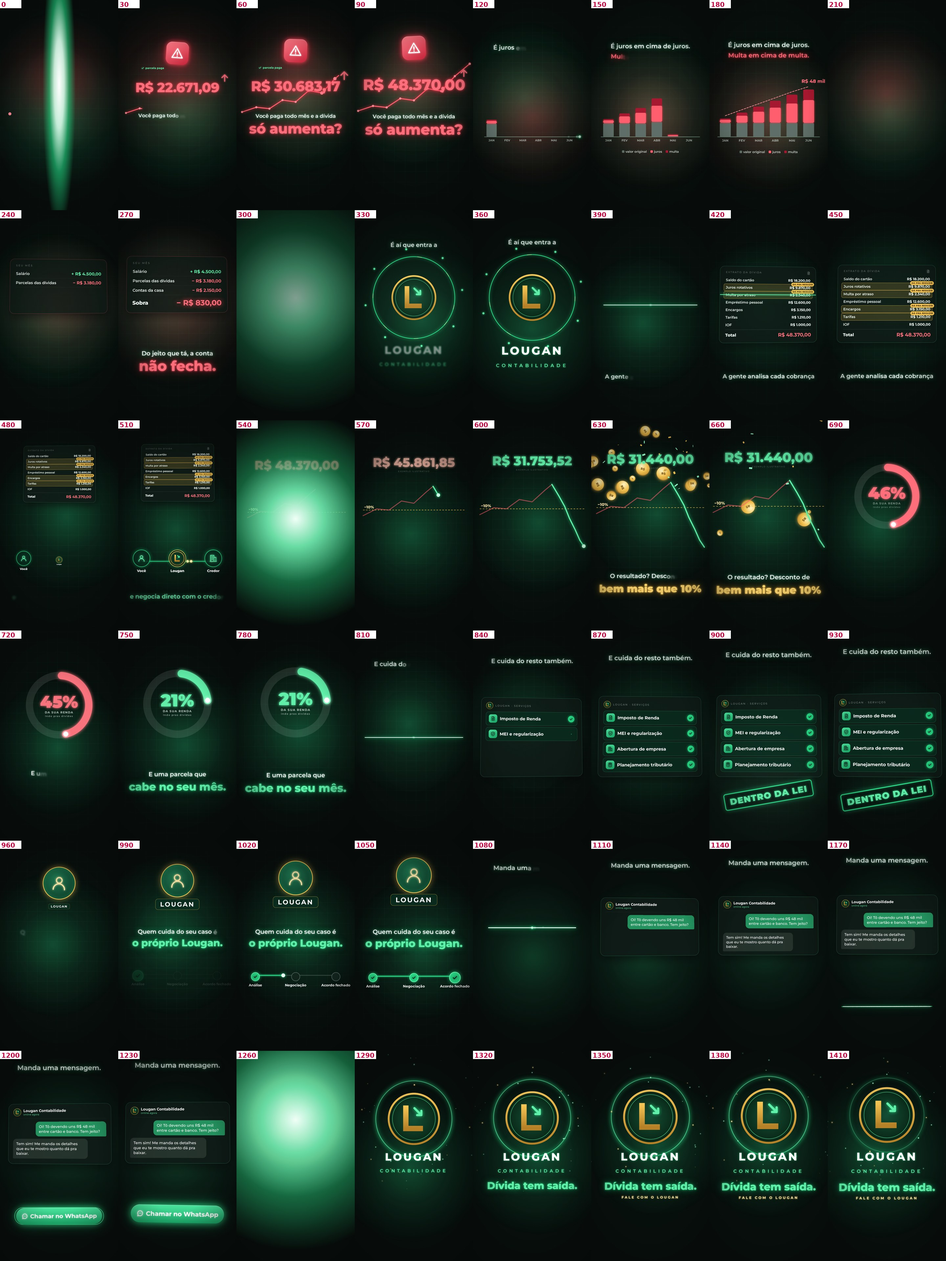
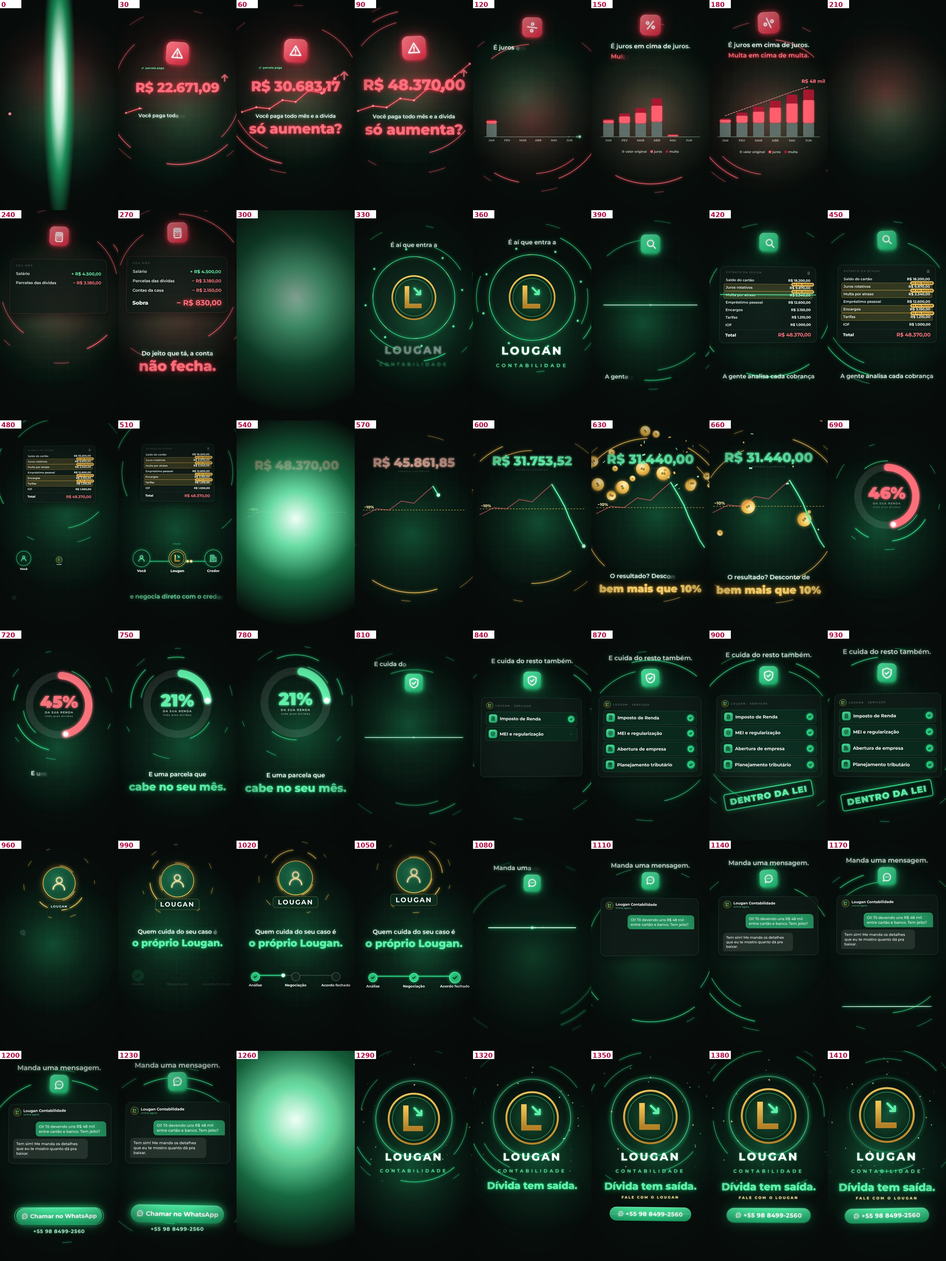
Lougan: arcos neon, ícones em tile e troca de tela da referência
Cada cena ganha arcos neon girando em volta do elemento principal
(mkArcs/arcsAt) e um ícone em tile brilhante com micro-animação
(mkTile/tileAt). Em 105, 675 e 945 as duas cenas viram cartões
arredondados com borda neon e deslizam juntas (SWIPE). O painel de
serviços ganhou um brilho atravessando pra não ficar parado.

Claude-Session: https://claude.ai/code/session_0146drBJ6xrHRsRtkNqfVv93

diff --git a/motion-studio/projects/lougan-contabil/motion.html b/motion-studio/projects/lougan-contabil/motion.html
@@ -106,7 +106,7 @@ function L(el, { y = CY, x = 0, s = 1, o = 1, b = 0 } = {}) {
 // câmera contínua (regra 1) + saídas: zoom com blur a partir de um ponto
 function cam(el, lf, d, { s0 = 1, s1 = 1.08, r = 0, ox = CX, oy = CY, exit = null } = {}) {
   let s = lerp(s0, s1, prog(lf, 0, d, E.lin)), b = 0, o = 1;
-  if (exit) {
+  if (exit && !NOEXIT) {
     const k = prog(lf, d - exit.len, d, E.inC);
     s *= 1 + (exit.zoom ?? .7) * k; b = (exit.blur ?? 22) * k; o = 1 - (exit.fade ?? 0) * k;
   }
@@ -185,6 +185,7 @@ const IC2 = {
   check: '<svg viewBox="0 0 24 24"><path d="M5 12.5l4.5 4.5L19 7.5"/></svg>',
   x: '<svg viewBox="0 0 24 24"><path d="M6 6l12 12M18 6L6 18"/></svg>',
   bolt: '<svg viewBox="0 0 24 24"><path d="M13 2.5L5 13.5h6l-1 8 8-11h-6z"/></svg>',
+  search: '<svg viewBox="0 0 24 24"><circle cx="10.5" cy="10.5" r="6.5"/><path d="M15.5 15.5L21 21"/></svg>',
 };
 const popS = (lf, t0) => spring(lf, t0, { k: 200, c: 15 });
 // ponto que viaja de um lado pro outro (com rastro) e abre a tela: ponto → linha → tela
@@ -222,6 +223,32 @@ const shakeAt = (lf, hits, amp = 14) => { let x = 0, y = 0; hits.forEach((t, i) 
 const redGlow = c => add(c, 'el', '', 'width:1500px;height:1500px;border-radius:50%;background:radial-gradient(circle,rgba(255,50,70,.30),rgba(255,50,70,.08) 35%,rgba(255,50,70,0) 62%)');
 const coinsEl = (c, n, size = 70) => [...Array(n).keys()].map(i => add(c, 'el coin', 'R$', `width:${size}px;height:${size}px;font-size:${size * .32}px`));
 
+// ---------- elementos da referência: arcos neon girando em volta da cena + ícone em tile com brilho ----------
+const beatOf = lf => Math.exp(-(((lf % 15) + 15) % 15) / 4);   // 120 BPM: um tempo a cada 15 frames
+function mkArcs(c, R = 620, col = '#22D37F') {
+  const segs = [[R, 7, `${R * .9} ${R * .55} ${R * .35} ${R * 4.5}`], [R - 85, 5, `${R * .55} ${R * 2.2}`], [R + 75, 3, `${R * .22} ${R * .7} ${R * .12} ${R * 1.4}`]];
+  const S = 2 * R + 300;
+  const el = add(c, 'el svgfull', `<svg width="${S}" height="${S}" viewBox="${-S / 2} ${-S / 2} ${S} ${S}" style="display:block">${segs.map(([r, w, da]) => `<circle r="${r}" fill="none" stroke="${col}" stroke-width="${w}" stroke-dasharray="${da}" stroke-linecap="round" style="filter:drop-shadow(0 0 12px ${col})"/>`).join('')}</svg>`, `width:${S}px;height:${S}px`);
+  return { el, cs: [...el.querySelectorAll('circle')] };
+}
+function arcsAt(A, lf, { x = CX, y = CY, s = 1, t0 = 0, spd = 1.6, o = 1 } = {}) {
+  const k = prog(lf, t0, t0 + 16, E.out5);
+  P(A.el, { x, y, s: lerp(1.35, 1, k) * s * (1 + .015 * beatOf(lf)), o: k * o, b: (1 - k) * 12 });
+  A.cs.forEach((cc, i) => cc.setAttribute('transform', `rotate(${(i % 2 ? -1 : 1) * (lf - t0) * spd * (1 + i * .4) + i * 75 + lerp(-110, 0, k)})`));
+}
+const mkTile = (c, svg, red = false, sz = V(180, 150)) => add(c, `el tile${red ? ' redtile' : ''}`, svg, `width:${sz}px;height:${sz}px`);
+function tileAt(t, lf, t0, d, { x = CX, y = CY, out = null, anim = 'beat' } = {}) {
+  const ok = prog(lf, t0, t0 + 14, E.out5);
+  let s = popS(lf, t0) * (1 + .06 * prog(lf, t0 + 8, d)) * (1 + .05 * beatOf(lf)), yy = y - prog(lf, t0, d) * 16, b = 0;
+  if (out !== null) { const q = prog(lf, out, out + 8, E.inC); s *= 1 - q; yy -= q * 120; b = q * 10; }
+  P(t, { x, y: yy, s, o: lf < t0 ? 0 : 1, b, r: lerp(-30, 0, ok) + Math.sin(lf * .9) * 2.5 * prog(lf, t0 + 8, t0 + 20) });
+  const g = t.querySelector('svg');
+  g.style.transform = anim === 'spin' ? `rotate(${(lf - t0) * 4}deg)` : anim === 'bob' ? `translateY(${Math.sin(lf / 4) * 8}%)` : anim === 'scan' ? `translate(${Math.sin(lf / 6) * 12}%,${Math.cos(lf / 8) * 9}%)` : `scale(${1 + .12 * beatOf(lf)})`;
+}
+// transição "troca de tela" da referência: as duas cenas viram cartões arredondados com borda neon e deslizam juntas
+const SWIPE = [105, 675, 945], SWN = 9;
+let NOEXIT = false;
+
 // ---------- peças de gráfico (a linguagem do gráfico de abertura vale pro vídeo todo) ----------
 const counter = (el, v, col) => { el.textContent = brl(Math.round(v * 100) / 100); if (col) el.style.color = col; };
 const mix = (a, b, k) => `rgb(${a.map((x, i) => Math.round(lerp(x, b[i], k))).join(',')})`;
@@ -230,17 +257,19 @@ const RED = [255, 107, 120], GRN = [93, 240, 168];
 // 1 · gancho: "Você paga todo mês e a dívida só aumenta?" (0–105)
 scene(0, 105, '', c => {
   darkBg(c); const rg = redGlow(c);
+  const A = mkArcs(c, 640, '#FF5A6A');
   const chart = add(c, 'el', `<svg width="900" height="420" viewBox="0 0 900 420" style="overflow:visible"><polyline class="ln" points="0,400 120,360 230,372 340,300 450,315 560,220 670,240 780,120 900,20" fill="none" stroke="#FF5A6A" stroke-width="8" stroke-linejoin="round" stroke-linecap="round" pathLength="1" stroke-dasharray="1" style="filter:drop-shadow(0 0 12px #FF3045)"/>${[0, 1, 2, 3, 4, 5, 6, 7, 8].map(i => `<circle class="pd" cx="${[0, 120, 230, 340, 450, 560, 670, 780, 900][i]}" cy="${[400, 360, 372, 300, 315, 220, 240, 120, 20][i]}" r="9" fill="#FF8A95"/>`).join('')}</svg>`, 'width:900px;height:420px');
   const tile = add(c, 'el tile redtile', IC2.alert, `width:${V(200, 170)}px;height:${V(200, 170)}px`);
   const num = add(c, 'el red', 'R$ 21.900,00', `font-weight:800;font-size:${V(118, 100)}px;white-space:nowrap;letter-spacing:-.01em`);
   const arrow = add(c, 'el', icon('<svg viewBox="0 0 24 24"><path d="M12 20V4M5 11l7-7 7 7"/></svg>', 90, '#FF6B78', 2.6));
   const paid = add(c, 'el', `${icon(IC2.check, 30, '#5DF0A8', 3)}<span>parcela paga</span>`, 'display:flex;align-items:center;gap:10px;font-weight:700;font-size:26px;color:#5DF0A8;white-space:nowrap');
-  return { rg, chart, ln: chart.querySelector('.ln'), pds: [...chart.querySelectorAll('.pd')], tile, num, arrow, paid, l1: typer(add(c, 'ctr ws', 'Você paga todo mês e a dívida'), 26), l2: add(c, 'ctr pb red', 'só aumenta?') };
+  return { A, rg, chart, ln: chart.querySelector('.ln'), pds: [...chart.querySelectorAll('.pd')], tile, num, arrow, paid, l1: typer(add(c, 'ctr ws', 'Você paga todo mês e a dívida'), 26), l2: add(c, 'ctr pb red', 'só aumenta?') };
 }, (x, lf, d) => {
   const c = x.ctx;
   cam(x.cam, lf, d, { s1: 1.1, oy: CY - 80, exit: { len: 8, zoom: .9, blur: 26, fade: .6 } });
   const [sx, sy] = shakeAt(lf, [62, 84], 10); x.cam.style.transform += ` translate(${sx}px,${sy}px)`;
   P(c.rg, { y: CY - 200, s: 1 + .15 * Math.sin(lf / 4) });
+  arcsAt(c.A, lf, { y: CY - 110 - lf * .5, t0: 4, spd: 1.8 });
   const dk = prog(lf, 4, 84, E.inOutC);
   c.ln.style.strokeDashoffset = 1 - dk;
   c.pds.forEach((p, i) => { const on = dk >= i / 8 - .001; p.style.opacity = on ? 1 : 0; p.setAttribute('r', on ? 9 + 5 * Math.exp(-Math.max(0, lf - (4 + i / 8 * 80)) / 4) : 0); });
@@ -260,15 +289,17 @@ scene(0, 105, '', c => {
 const MONTHS = ['JAN', 'FEV', 'MAR', 'ABR', 'MAI', 'JUN'];
 scene(105, 105, '', c => {
   darkBg(c); const rg = redGlow(c);
+  const A = mkArcs(c, 660, '#FF5A6A'), T = mkTile(c, IC2.pct, true, V(170, 140));
   const bars = MONTHS.map((m, i) => `<g class="bar"><rect class="s0" x="${40 + i * 140}" width="92" rx="10" fill="#5B6B64"/><rect class="s1" x="${40 + i * 140}" width="92" rx="10" fill="#FF5A6A" style="filter:drop-shadow(0 0 8px #FF3045)"/><rect class="s2" x="${40 + i * 140}" width="92" rx="10" fill="#A3122A"/><text x="${86 + i * 140}" y="600" text-anchor="middle" fill="rgba(242,255,248,.6)" font-family="Montserrat" font-weight="700" font-size="26">${m}</text></g>`).join('');
   const chart = add(c, 'el', `<svg width="900" height="620" viewBox="0 0 900 620" style="overflow:visible"><line class="base" x1="20" y1="560" x2="880" y2="560" stroke="rgba(200,255,226,.55)" stroke-width="4" pathLength="1" stroke-dasharray="1"/>${bars}<polyline class="tr" fill="none" stroke="#FF8A95" stroke-width="5" stroke-dasharray="14 10" stroke-linecap="round"/><text class="tot" x="826" y="0" text-anchor="middle" fill="#FF6B78" font-family="Montserrat" font-weight="800" font-size="40">R$ 48 mil</text></svg>`, 'width:900px;height:620px');
   const leg = add(c, 'el', [['#5B6B64', 'valor original'], ['#FF5A6A', 'juros'], ['#A3122A', 'multa']].map(([col, t]) => `<span style="display:inline-flex;align-items:center;gap:10px;margin:0 16px"><i style="width:22px;height:22px;border-radius:6px;background:${col}"></i>${t}</span>`).join(''), 'font-weight:600;font-size:28px;color:rgba(242,255,248,.8);white-space:nowrap');
   const D = mkDot(c);
-  return { D, base: chart.querySelector('.base'), rg, chart, bars: [...chart.querySelectorAll('.bar')], tr: chart.querySelector('.tr'), tot: chart.querySelector('.tot'), leg, l1: typer(add(c, 'ctr ws', 'É juros em cima de juros.', 'font-size:54px'), 26), l2: typer(add(c, 'ctr ws red', 'Multa em cima de multa.', 'font-size:54px'), 26) };
+  return { A, T, D, base: chart.querySelector('.base'), rg, chart, bars: [...chart.querySelectorAll('.bar')], tr: chart.querySelector('.tr'), tot: chart.querySelector('.tot'), leg, l1: typer(add(c, 'ctr ws', 'É juros em cima de juros.', 'font-size:54px'), 26), l2: typer(add(c, 'ctr ws red', 'Multa em cima de multa.', 'font-size:54px'), 26) };
 }, (x, lf, d) => {
   const c = x.ctx;
   cam(x.cam, lf, d, { s1: 1.08, exit: { len: 8, zoom: .5, blur: 18 } });
   P(c.rg, { y: CY + 100, s: 1 + .1 * Math.sin(lf / 5) });
+  arcsAt(c.A, lf, { y: CY + 40 - lf * .3, t0: 4 }); tileAt(c.T, lf, 2, d, { y: CY - V(700, 520), anim: 'spin' });
   P(c.chart, { y: CY + 40 - lf * .3, s: 1 + .04 * prog(lf, 0, d) });
   const by = CY + 40 - lf * .3 + 250;
   dotTravel(c.D, lf, 0, 12, { x: -40, y: by }, { x: CX + 430, y: by });
@@ -294,17 +325,19 @@ scene(105, 105, '', c => {
 const LEDGER = [['Salário', 4500, GRN], ['Parcelas das dívidas', -3180, RED], ['Contas da casa', -2150, RED]];
 scene(210, 90, '', c => {
   darkBg(c); const rg = redGlow(c);
+  const A = mkArcs(c, 600, '#FF5A6A'), T = mkTile(c, IC2.calc, true, V(160, 130));
   const card = add(c, 'el', `<div class="mono" style="font-size:22px;letter-spacing:.3em;color:rgba(242,255,248,.5);margin-bottom:18px">SEU MÊS</div>
     ${LEDGER.map(([t, v, col]) => `<div class="lr" style="display:flex;justify-content:space-between;align-items:center;padding:16px 0;border-bottom:1px solid rgba(242,255,248,.1)"><span style="font-weight:600;font-size:34px;color:#F2FFF8">${t}</span><b style="font-size:38px;color:rgb(${col.join(',')})">${v > 0 ? '+ ' : '− '}${brl(Math.abs(v))}</b></div>`).join('')}
     <div class="lr" style="display:flex;justify-content:space-between;align-items:center;padding-top:26px"><span style="font-weight:800;font-size:44px;color:#F2FFF8">Sobra</span><b class="sob" style="font-size:64px;color:#FF6B78">R$ 0,00</b></div>`,
     'width:860px;padding:44px 50px;border-radius:40px;background:rgba(8,20,15,.82);border:2px solid rgba(255,107,120,.35);box-shadow:0 30px 80px rgba(0,0,0,.6)');
   const D = mkDot(c);
-  return { D, rg, card, rows: [...card.querySelectorAll('.lr')], sob: card.querySelector('.sob'), l1: typer(add(c, 'ctr ws', 'Do jeito que tá, a conta', 'font-size:52px'), 26), l2: add(c, 'ctr pb red', 'não fecha.') };
+  return { A, T, D, rg, card, rows: [...card.querySelectorAll('.lr')], sob: card.querySelector('.sob'), l1: typer(add(c, 'ctr ws', 'Do jeito que tá, a conta', 'font-size:52px'), 26), l2: add(c, 'ctr pb red', 'não fecha.') };
 }, (x, lf, d) => {
   const c = x.ctx;
   cam(x.cam, lf, d, { s1: 1.08, exit: { len: 8, zoom: 1.2, blur: 22, fade: .6 } });
   const [sx, sy] = shakeAt(lf, [54], 12); x.cam.style.transform += ` translate(${sx}px,${sy}px)`;
   P(c.rg, { y: CY - 100, s: (1 + .1 * Math.sin(lf / 5)) * (lf > 54 ? 1.2 : 1) });
+  arcsAt(c.A, lf, { y: CY - V(250, 190) - lf * .3, t0: 8, spd: -1.7 }); tileAt(c.T, lf, 4, d, { y: CY - V(690, 500) - lf * .3, anim: 'bob' });
   const cy3 = CY - V(250, 190) - lf * .3;
   dotTravel(c.D, lf, 0, 10, { x: 1120, y: cy3 + 260 }, { x: CX, y: cy3 }, 120);
   P(c.card, { y: cy3, s: 1 + .03 * prog(lf, 10, d), t3: `perspective(1600px) rotateX(3deg) rotateY(${Math.sin(lf / 25) * 3}deg)` });
@@ -320,15 +353,17 @@ scene(210, 90, '', c => {
 // 4 · "É aí que entra a Lougan Contabilidade." (300–375)
 scene(300, 75, '', c => {
   darkBg(c, false);
+  const A = mkArcs(c, 560, '#22D37F');
   const ring = add(c, 'el', `<svg width="1000" height="1000" viewBox="-500 -500 1000 1000" style="overflow:visible"><circle r="${V(360, 300)}" fill="none" stroke="#22D37F" stroke-width="6" style="filter:drop-shadow(0 0 14px #22D37F)"/><circle r="${V(360, 300)}" fill="none" stroke="#FFE9A8" stroke-width="3" stroke-dasharray="40 260" opacity=".8"/>${[...Array(8).keys()].map(i => { const a = i / 8 * Math.PI * 2; return `<circle cx="${Math.cos(a) * V(430, 360)}" cy="${Math.sin(a) * V(430, 360)}" r="9" fill="#5DF0A8" style="filter:drop-shadow(0 0 8px #22D37F)"/>`; }).join('')}</svg>`, 'width:1000px;height:1000px');
   const logo = add(c, 'el', BADGE(V(400, 340)), 'filter:drop-shadow(0 0 40px rgba(34,211,127,.6))');
   const wm = add(c, 'ctr', '<span style="font-weight:800;letter-spacing:.14em">LOUGAN</span><br><span style="font-weight:600;font-size:.42em;letter-spacing:.5em;color:#5DF0A8">CONTABILIDADE</span>', `font-size:${V(96, 80)}px;color:#fff;line-height:1.1;text-shadow:0 0 18px rgba(34,211,127,.6)`);
   const D = mkDot(c);
-  return { D, ring, logo, wm, l: typer(add(c, 'ctr ws', 'É aí que entra a', 'font-size:52px'), 22) };
+  return { A, D, ring, logo, wm, l: typer(add(c, 'ctr ws', 'É aí que entra a', 'font-size:52px'), 22) };
 }, (x, lf, d) => {
   cam(x.cam, lf, d, { s1: 1.07, oy: CY - 120, exit: { len: 8, zoom: .5, blur: 16 } });
   L(x.ctx.l.el, { y: CY - V(620, 480) - lf * .3 }); type(x.ctx.l, lf, 2);
   dotTravel(x.ctx.D, lf, 0, 14, { x: -40, y: CY + 200 }, { x: CX, y: CY - 160 }, 160);
+  arcsAt(x.ctx.A, lf, { y: CY - 160, t0: 14, spd: -1.4 });
   const lk = spring(lf, 14, { k: 120, c: 12 });
   P(x.ctx.ring, { y: CY - 160, s: lerp(1.3, 1, prog(lf, 14, 30, E.out5)) * (1 + .04 * prog(lf, 14, d)), r: lf * 1.2, o: prog(lf, 14, 18) });
   P(x.ctx.logo, { y: CY - 160, s: lerp(.5, 1, lk) * (1 + .05 * prog(lf, 14, d)), o: lf < 14 ? 0 : 1, b: (1 - prog(lf, 14, 24, E.out5)) * 16, r: lerp(-20, 0, prog(lf, 14, 32, E.out5)) });
@@ -339,6 +374,7 @@ scene(300, 75, '', c => {
 const EXTRATO = [['Saldo do cartão', 18200, 0], ['Juros rotativos', 9870, 1], ['Multa por atraso', 2340, 1], ['Empréstimo pessoal', 12600, 0], ['Encargos', 3150, 1], ['Tarifas', 1210, 1], ['IOF', 1000, 0]];
 scene(375, 165, '', c => {
   darkBg(c);
+  const A = mkArcs(c, 640, '#22D37F'), T = mkTile(c, IC2.search, false, V(160, 130));
   const doc = add(c, 'el', `<div class="mono" style="display:flex;justify-content:space-between;font-size:22px;letter-spacing:.24em;color:rgba(242,255,248,.5);margin-bottom:14px"><span>EXTRATO DA DÍVIDA</span><span>${icon(IC2.doc, 30, 'rgba(242,255,248,.5)', 1.8)}</span></div>
     ${EXTRATO.map(([t, v, f]) => `<div class="er" data-f="${f}" style="position:relative;display:flex;justify-content:space-between;align-items:center;padding:14px 18px;margin:0 -18px;border-radius:14px"><span style="font-weight:600;font-size:31px;color:#F2FFF8">${t}</span><b style="font-size:31px;color:#F2FFF8">${brl(v)}</b><i class="tg" style="position:absolute;right:-16px;top:-14px;font-style:normal;font-weight:800;font-size:18px;letter-spacing:.08em;padding:6px 12px;border-radius:999px;background:#F2C14E;color:#3A2604;opacity:0">DÁ PRA REDUZIR</i></div>`).join('')}
     <div style="display:flex;justify-content:space-between;align-items:center;padding-top:18px;margin-top:8px;border-top:2px solid rgba(242,255,248,.15)"><span style="font-weight:800;font-size:36px;color:#F2FFF8">Total</span><b style="font-size:44px;color:#FF6B78">R$ 48.370,00</b></div>
@@ -349,7 +385,7 @@ scene(375, 165, '', c => {
     <div class="deal" style="position:absolute;left:450px;top:-100px;transform:translate(-50%,-50%);padding:14px 30px;border-radius:999px;background:#22D37F;color:#03281A;font-weight:800;font-size:32px;white-space:nowrap;box-shadow:0 0 40px rgba(34,211,127,.8)">✓ ACORDO</div>`,
     'width:900px;height:260px');
   const D = mkDot(c);
-  return { D, doc, rows: [...doc.querySelectorAll('.er')], scan: doc.querySelector('.scan'), net, nl: net.querySelector('.nl'), pks: [...net.querySelectorAll('.pk')], nds: [...net.querySelectorAll('.nd')], deal: net.querySelector('.deal'),
+  return { A, T, D, doc, rows: [...doc.querySelectorAll('.er')], scan: doc.querySelector('.scan'), net, nl: net.querySelector('.nl'), pks: [...net.querySelectorAll('.pk')], nds: [...net.querySelectorAll('.nd')], deal: net.querySelector('.deal'),
     l1: typer(add(c, 'ctr ws', 'A gente analisa cada cobrança', 'font-size:52px'), 28), l2: typer(add(c, 'ctr ws', 'e negocia direto com o credor.', 'font-size:52px;color:#5DF0A8'), 28) };
 }, (x, lf, d) => {
   const c = x.ctx;
@@ -357,6 +393,7 @@ scene(375, 165, '', c => {
   const ck = spring(lf, 0), up = prog(lf, 84, 104, E.inOutC);
   const dy5 = lerp(CY - V(90, 60), CY - V(430, 300), up) - lf * .2;
   dotTravel(c.D, lf, 0, 10, { x: 1120, y: dy5 + 420 }, { x: CX, y: dy5 }, 140);
+  arcsAt(c.A, lf, { y: dy5, t0: 10, s: lerp(1, .85, up) }); tileAt(c.T, lf, 4, d, { y: CY - V(640, 460) - lf * .2, out: 78, anim: 'scan' });
   P(c.doc, { y: dy5, s: lerp(1, .72, up) * (1 + .02 * prog(lf, 10, 84)), t3: `perspective(1600px) rotateX(3deg) rotateY(${Math.sin(lf / 25) * 3}deg)` });
   openCard(c.doc, c.D, lf, 10, CX, dy5);
   const sy = lerp(80, 760, prog(lf, 22, 80, E.inOutC));
@@ -381,6 +418,7 @@ scene(375, 165, '', c => {
 // 6 · drop: o mesmo gráfico vira e despenca — bem mais que 10% (540–675)
 scene(540, 135, '', c => {
   darkBg(c);
+  const A = mkArcs(c, 660, '#F2C14E');
   const conf = [...Array(40).keys()].map(i => i % 2 ? add(c, 'conf', '', `width:${8 + hash(i) * 14}px;height:${4 + hash(i + 1) * 8}px;background:${['#FFE9A8', '#F2C14E', '#ffffff', '#8CF5C2'][i % 4]}`) : add(c, 'el coin', 'R$', `width:${46 + hash(i) * 30}px;height:${46 + hash(i) * 30}px;font-size:16px`));
   const chart = add(c, 'el', `<svg width="900" height="640" viewBox="0 0 900 640" style="overflow:visible">
     <line x1="0" y1="250" x2="900" y2="250" stroke="#F2C14E" stroke-width="4" stroke-dasharray="14 12" opacity=".9"/><text class="t10" x="10" y="236" fill="#FFE9A8" font-family="Montserrat" font-weight="800" font-size="34">−10%</text>
@@ -389,12 +427,13 @@ scene(540, 135, '', c => {
     <circle class="hd" r="16" fill="#C8FFE2" style="filter:drop-shadow(0 0 12px #22D37F)"/></svg>`, 'width:900px;height:640px');
   const num = add(c, 'el', 'R$ 48.370,00', `font-weight:800;font-size:${V(112, 96)}px;white-space:nowrap`);
   const ex = add(c, 'el', 'exemplo ilustrativo', 'font-size:18px;letter-spacing:.2em;color:rgba(242,255,248,.45);text-transform:uppercase;white-space:nowrap');
-  return { conf, chart, gl: chart.querySelector('.gl'), hd: chart.querySelector('.hd'), num, ex, l1: typer(add(c, 'ctr ws', 'O resultado? Desconto de', 'font-size:52px'), 24), l2: add(c, 'ctr gold', 'bem mais que 10%', `font-weight:900;font-size:${V(86, 76)}px`) };
+  return { A, conf, chart, gl: chart.querySelector('.gl'), hd: chart.querySelector('.hd'), num, ex, l1: typer(add(c, 'ctr ws', 'O resultado? Desconto de', 'font-size:52px'), 24), l2: add(c, 'ctr gold', 'bem mais que 10%', `font-weight:900;font-size:${V(86, 76)}px`) };
 }, (x, lf, d) => {
   const c = x.ctx;
   cam(x.cam, lf, d, { s1: 1.09, oy: CY - 100 });
   const [sx, sy] = shakeAt(lf, [0, 70], 16); x.cam.style.transform += ` translate(${sx}px,${sy}px)`;
   P(c.chart, { y: CY - 60 - lf * .3, s: 1 + .05 * prog(lf, 0, d) });
+  arcsAt(c.A, lf, { y: CY - 60 - lf * .3, t0: 0, spd: 2.4 });
   const gk = prog(lf, 10, 70, E.inOutC); c.gl.style.strokeDashoffset = 1 - gk;
   const pt = c.gl.getPointAtLength(c.gl.getTotalLength() * gk); c.hd.setAttribute('cx', pt.x); c.hd.setAttribute('cy', pt.y); c.hd.style.opacity = lf > 10 && lf < 76 ? 1 : 0;
   const vk = prog(lf, 10, 70, E.inOutC);
@@ -414,15 +453,17 @@ scene(540, 135, '', c => {
 scene(675, 120, '', c => {
   darkBg(c);
   const R0 = 260, C0 = 2 * Math.PI * R0;
+  const A = mkArcs(c, 400, '#22D37F');
   const donut = add(c, 'el', `<svg width="700" height="700" viewBox="-350 -350 700 700" style="overflow:visible"><circle r="${R0}" fill="none" stroke="rgba(242,255,248,.1)" stroke-width="64"/><circle class="arc" r="${R0}" fill="none" stroke="#FF5A6A" stroke-width="64" stroke-linecap="round" transform="rotate(-90)" stroke-dasharray="0 ${C0}" style="filter:drop-shadow(0 0 14px rgba(255,60,80,.7))"/><circle class="ah" r="22" fill="#fff" style="filter:drop-shadow(0 0 14px #fff)"/></svg>`, 'width:700px;height:700px');
   const pct = add(c, 'el', '46%', 'font-weight:900;font-size:150px;color:#FF6B78;white-space:nowrap;line-height:1');
   const lab = add(c, 'el', 'DA SUA RENDA<br><span style="font-size:.8em;opacity:.7">indo pras dívidas</span>', 'font-weight:700;font-size:26px;letter-spacing:.14em;color:rgba(242,255,248,.75);text-align:center;white-space:nowrap');
-  return { donut, arc: donut.querySelector('.arc'), C0, pct, lab, l1: typer(add(c, 'ctr ws', 'E uma parcela que', 'font-size:52px'), 24), l2: add(c, 'ctr pb', 'cabe no seu mês.', `font-size:${V(92, 80)}px`) };
+  return { A, donut, arc: donut.querySelector('.arc'), C0, pct, lab, l1: typer(add(c, 'ctr ws', 'E uma parcela que', 'font-size:52px'), 24), l2: add(c, 'ctr pb', 'cabe no seu mês.', `font-size:${V(92, 80)}px`) };
 }, (x, lf, d) => {
   const c = x.ctx;
   cam(x.cam, lf, d, { s1: 1.08, oy: CY - 120 });
   const dy = CY - V(260, 190);
   P(c.donut, { y: dy - lf * .3, s: lerp(.8, 1, spring(lf, 0)) * (1 + .03 * prog(lf, 0, d)), r: lf * .1 });
+  arcsAt(c.A, lf, { y: dy - lf * .3, t0: 2, spd: 2.4 });
   const grow = prog(lf, 2, 20, E.out5), fall = prog(lf, 36, 80, E.inOutC);
   const p = lerp(.46, .21, fall) * grow;
   c.arc.setAttribute('stroke-dasharray', `${c.C0 * p} ${c.C0}`);
@@ -440,12 +481,13 @@ scene(675, 120, '', c => {
 const SERV2 = [['Imposto de Renda', IC2.doc], ['MEI e regularização', IC2.shield], ['Abertura de empresa', IC2.building], ['Planejamento tributário', IC2.calc]];
 scene(795, 150, '', c => {
   darkBg(c);
+  const A = mkArcs(c, 660, '#22D37F'), T = mkTile(c, IC2.shield, false, V(150, 120));
   const panel = add(c, 'el', `<div style="display:flex;align-items:center;gap:18px;margin-bottom:22px">${BADGE(64)}<span class="mono" style="font-size:22px;letter-spacing:.24em;color:rgba(242,255,248,.6)">LOUGAN · SERVIÇOS</span></div>
     ${SERV2.map(([t, ic]) => `<div class="sr" style="display:flex;align-items:center;gap:22px;padding:22px 24px;margin-bottom:14px;border-radius:24px;background:rgba(3,40,26,.75);border:2px solid rgba(93,240,168,.25)"><div style="width:74px;height:74px;border-radius:20px;background:linear-gradient(150deg,#4BE8A0,#13A563);display:flex;align-items:center;justify-content:center;flex:none">${icon(ic, 42, '#03281A', 2)}</div><span style="font-weight:700;font-size:38px;color:#fff;white-space:nowrap">${t}</span><div class="ck" style="margin-left:auto;width:58px;height:58px;border-radius:50%;background:#22D37F;display:flex;align-items:center;justify-content:center;box-shadow:0 0 20px rgba(34,211,127,.8);flex:none">${icon(IC2.check, 34, '#03281A', 3.4)}</div></div>`).join('')}`,
-    'width:900px;padding:40px 40px 26px;border-radius:40px;background:rgba(8,20,15,.85);border:2px solid rgba(93,240,168,.3);box-shadow:0 30px 80px rgba(0,0,0,.6)');
+    'width:900px;padding:40px 40px 26px;border-radius:40px;background:linear-gradient(115deg,rgba(93,240,168,0) 42%,rgba(93,240,168,.13) 50%,rgba(93,240,168,0) 58%) 0 0/300% 100% no-repeat,rgba(8,20,15,.85);border:2px solid rgba(93,240,168,.3);box-shadow:0 30px 80px rgba(0,0,0,.6)');
   const stampEl = add(c, 'el', 'DENTRO DA LEI', 'padding:18px 40px;border:9px solid #22D37F;border-radius:22px;color:#5DF0A8;font-weight:900;font-size:76px;letter-spacing:.04em;white-space:nowrap;text-shadow:0 0 20px rgba(34,211,127,.8);box-shadow:0 0 40px rgba(34,211,127,.5),inset 0 0 30px rgba(34,211,127,.3);background:rgba(2,10,7,.55)');
   const D = mkDot(c);
-  return { D, panel, rows: [...panel.querySelectorAll('.sr')], cks: [...panel.querySelectorAll('.ck')], stampEl, l: typer(add(c, 'ctr ws', 'E cuida do resto também.', 'font-size:54px'), 26) };
+  return { A, T, D, panel, rows: [...panel.querySelectorAll('.sr')], cks: [...panel.querySelectorAll('.ck')], stampEl, l: typer(add(c, 'ctr ws', 'E cuida do resto também.', 'font-size:54px'), 26) };
 }, (x, lf, d) => {
   const c = x.ctx;
   cam(x.cam, lf, d, { s1: 1.07 });
@@ -453,8 +495,10 @@ scene(795, 150, '', c => {
   L(c.l.el, { y: CY - V(640, 470) - lf * .6, s: 1 + .06 * prog(lf, 0, d) }); type(c.l, lf, 2);
   const py8 = CY + V(20, 10) - lf * .2;
   dotTravel(c.D, lf, 0, 10, { x: -40, y: py8 + 380 }, { x: CX, y: py8 }, 160);
+  arcsAt(c.A, lf, { y: py8, t0: 10, spd: -1.6 }); tileAt(c.T, lf, 4, d, { y: CY - V(470, 340) - lf * .4, anim: 'beat' });
   P(c.panel, { y: py8, s: 1 + .03 * prog(lf, 10, d), t3: `perspective(1600px) rotateX(3deg) rotateY(${Math.sin(lf / 30) * 3}deg)` });
   openCard(c.panel, c.D, lf, 10, CX, py8);
+  c.panel.style.backgroundPosition = `${lerp(110, -10, ((lf + 30) % 75) / 75)}% 0`;   // brilho que atravessa o painel
   c.rows.forEach((r, i) => { const k = prog(lf, 22 + i * 12, 34 + i * 12, E.out5); r.style.opacity = k; r.style.transform = `translateX(${(1 - k) * 80}px)`; });
   c.cks.forEach((k2, i) => { const k = popS(lf, 32 + i * 12); k2.style.transform = `scale(${lf < 32 + i * 12 ? 0 : k})`; });
   const st = prog(lf, 90, 96, E.inC);
@@ -464,16 +508,18 @@ scene(795, 150, '', c => {
 // 9 · "Quem cuida do seu caso é o próprio Lougan." — linha do tempo do atendimento (945–1065)
 scene(945, 120, '', c => {
   darkBg(c);
+  const A = mkArcs(c, 240, '#F2C14E');
   const av = add(c, 'el', `<div style="width:100%;height:100%;border-radius:50%;background:radial-gradient(circle at 40% 35%,#1A7A50,#04281A);display:flex;align-items:center;justify-content:center;border:6px solid #F2C14E;box-shadow:0 0 50px rgba(242,193,78,.55),inset 0 0 40px rgba(34,211,127,.35)">${icon(IC2.user, 150, '#FFE9A8', 1.6)}</div>`, `width:${V(290, 250)}px;height:${V(290, 250)}px`);
   const tag = add(c, 'el', '<b style="letter-spacing:.14em">LOUGAN</b>', 'font-size:56px;color:#fff;text-align:center;white-space:nowrap;padding:12px 40px;border-radius:24px;background:rgba(3,40,26,.85);border:2px solid rgba(242,193,78,.6)');
   const tl = add(c, 'el', `<svg width="860" height="80" viewBox="0 0 860 80" style="overflow:visible"><line x1="80" y1="40" x2="780" y2="40" stroke="rgba(242,255,248,.15)" stroke-width="8" stroke-linecap="round"/><line class="pf" x1="80" y1="40" x2="780" y2="40" stroke="#22D37F" stroke-width="8" stroke-linecap="round" pathLength="1" stroke-dasharray="1" style="filter:drop-shadow(0 0 8px #22D37F)"/><circle class="ph" cy="40" r="17" fill="#E6FFF2" style="filter:drop-shadow(0 0 12px #22D37F)"/></svg>
     ${['Análise', 'Negociação', 'Acordo fechado'].map((t, i) => `<div class="st" style="position:absolute;left:${80 + i * 350}px;top:40px;transform:translate(-50%,-50%);display:flex;flex-direction:column;align-items:center;gap:16px"><div class="sd" style="width:78px;height:78px;border-radius:50%;background:#0B1F17;border:5px solid rgba(242,255,248,.25);display:flex;align-items:center;justify-content:center;margin-top:76px">${icon(IC2.check, 40, '#03281A', 3.4)}</div><span style="font-weight:700;font-size:30px;color:#fff;white-space:nowrap">${t}</span></div>`).join('')}`, 'width:860px;height:80px');
-  return { av, tag, tl, pf: tl.querySelector('.pf'), sts: [...tl.querySelectorAll('.sd')], l1: typer(add(c, 'ctr ws', 'Quem cuida do seu caso é', 'font-size:52px'), 24), l2: add(c, 'ctr pb', 'o próprio Lougan.', `font-size:${V(86, 76)}px`) };
+  return { A, av, tag, tl, pf: tl.querySelector('.pf'), sts: [...tl.querySelectorAll('.sd')], l1: typer(add(c, 'ctr ws', 'Quem cuida do seu caso é', 'font-size:52px'), 24), l2: add(c, 'ctr pb', 'o próprio Lougan.', `font-size:${V(86, 76)}px`) };
 }, (x, lf, d) => {
   const c = x.ctx;
   cam(x.cam, lf, d, { s1: 1.08, oy: CY - 160 });
   const ay = CY - V(560, 400);
   P(c.av, { y: ay - lf * .5, s: spring(lf, 0, { k: 140, c: 13 }) * (1 + .06 * prog(lf, 0, d)), r: Math.sin(lf / 12) * 3 });
+  arcsAt(c.A, lf, { y: ay - lf * .5, t0: 4, spd: 3 });
   P(c.tag, { y: ay + V(210, 180) - lf * .5, s: spring(lf, 10) * (1 + .04 * prog(lf, 10, d)), o: lf < 10 ? 0 : 1 });
   L(c.l1.el, { y: CY - V(130, 100) }); type(c.l1, lf, 14);
   pop(c.l2, lf, 34, d, { y: CY - V(30, 10) });
@@ -486,6 +532,7 @@ scene(945, 120, '', c => {
 // 10 · conversa + CTA "Chamar no WhatsApp" (1065–1260)
 scene(1065, 195, '', c => {
   c.appendChild(h('div', 'glow', '', 'opacity:.7'));
+  const A = mkArcs(c, 640, '#22D37F'), T = mkTile(c, IC2.chat, false, V(150, 120));
   const chat = add(c, 'el', `<div style="display:flex;align-items:center;gap:18px;padding-bottom:20px;border-bottom:1px solid rgba(242,255,248,.12)">${BADGE(70)}<div><b style="font-size:32px;color:#fff">Lougan Contabilidade</b><span style="display:block;font-size:22px;color:#5DF0A8">online agora</span></div></div>
     <div class="m1" style="margin:26px 0 0 auto;max-width:600px;padding:22px 28px;border-radius:30px;border-bottom-right-radius:8px;background:#1F8F5B;color:#fff;font-size:32px;font-weight:500;line-height:1.3">Oi! Tô devendo uns R$ 48 mil entre cartão e banco. Tem jeito?</div>
     <div class="td" style="margin-top:22px;width:120px;padding:22px 26px;border-radius:30px;background:rgba(242,255,248,.1);display:flex;gap:10px"><i style="width:14px;height:14px;border-radius:50%;background:#C8FFE2"></i><i style="width:14px;height:14px;border-radius:50%;background:#C8FFE2"></i><i style="width:14px;height:14px;border-radius:50%;background:#C8FFE2"></i></div>
@@ -495,7 +542,7 @@ scene(1065, 195, '', c => {
   const btn = add(c, 'el btn', `${icon(IC2.chat, 62, '#fff', 2.2)}<span style="margin-left:18px">Chamar no WhatsApp</span>`, `width:${V(780, 720)}px;height:150px;font-size:${V(52, 48)}px`);
   const num = add(c, 'ctr', '+55 98 8499-2560', 'font-weight:700;font-size:44px;color:#C8FFE2;letter-spacing:.06em;text-shadow:0 0 14px rgba(34,211,127,.7)');
   const D = mkDot(c), D2 = mkDot(c);
-  return { D, D2, num, chat, m1: chat.querySelector('.m1'), td: chat.querySelector('.td'), m2: chat.querySelector('.m2'), ripple, btn, l: typer(add(c, 'ctr ws', 'Manda uma mensagem.', 'font-size:56px'), 24) };
+  return { A, T, D, D2, num, chat, m1: chat.querySelector('.m1'), td: chat.querySelector('.td'), m2: chat.querySelector('.m2'), ripple, btn, l: typer(add(c, 'ctr ws', 'Manda uma mensagem.', 'font-size:56px'), 24) };
 }, (x, lf, d) => {
   const c = x.ctx;
   cam(x.cam, lf, d, { s1: 1.07, exit: { len: 8, zoom: .3, blur: 10 } });
@@ -504,6 +551,7 @@ scene(1065, 195, '', c => {
   dotTravel(c.D, lf, 2, 12, { x: 1120, y: cy10 - 380 }, { x: CX, y: cy10 }, -120);
   P(c.chat, { y: cy10, s: 1 + .03 * prog(lf, 12, d), t3: `perspective(1600px) rotateX(2deg) rotateY(${Math.sin(lf / 28) * 3}deg)` });
   openCard(c.chat, c.D, lf, 12, CX, cy10, 44);
+  arcsAt(c.A, lf, { y: cy10 + 200, t0: 12, s: 1 + .05 * prog(lf, 12, d), o: 1 - prog(lf, 180, 188) }); tileAt(c.T, lf, 2, d, { y: CY - V(560, 400) - lf * .4, out: 176, anim: 'bob' });
   const b1 = spring(lf, 24); c.m1.style.opacity = lf < 24 ? 0 : clamp(b1 * 2); c.m1.style.transform = `translateY(${(1 - b1) * 40}px) scale(${lerp(.85, 1, b1)})`; c.m1.style.transformOrigin = '100% 100%';
   c.td.style.opacity = lf > 48 && lf < 68 ? 1 : 0; [...c.td.children].forEach((dd, i) => { dd.style.transform = `translateY(${Math.sin(lf / 2.2 - i) * 5}px)`; });
   const b2 = spring(lf, 68); c.m2.style.opacity = lf < 68 ? 0 : clamp(b2 * 2); c.m2.style.transform = `translateY(${(1 - b2) * 40}px) scale(${lerp(.85, 1, b2)})`; c.m2.style.transformOrigin = '0 100%';
@@ -525,18 +573,20 @@ scene(1065, 195, '', c => {
 // 11 · assinatura: "Lougan Contabilidade. Dívida tem saída." (1260–1440)
 scene(1260, 180, '', c => {
   darkBg(c, false);
+  const A = mkArcs(c, 560, '#22D37F');
   const halo = add(c, 'el', '', `width:${V(640, 520)}px;height:${V(640, 520)}px;border-radius:50%;border:5px solid rgba(93,240,168,.8);box-shadow:0 0 40px rgba(34,211,127,.8),inset 0 0 40px rgba(34,211,127,.5)`);
   const logo = add(c, 'el', BADGE(V(470, 390)), 'filter:drop-shadow(0 0 50px rgba(34,211,127,.7))');
   const wm = add(c, 'ctr', '<span style="font-weight:800;letter-spacing:.14em">LOUGAN</span><br><span style="font-weight:600;font-size:.42em;letter-spacing:.5em;color:#5DF0A8">CONTABILIDADE</span>', `font-size:${V(96, 80)}px;color:#fff;line-height:1.1;text-shadow:0 0 18px rgba(34,211,127,.6)`);
   const sparks = [...Array(40).keys()].map(i => add(c, 'el', '', `width:${4 + hash(i) * 7}px;height:${4 + hash(i) * 7}px;border-radius:50%;background:${i % 3 ? '#C8FFE2' : '#FFE9A8'};box-shadow:0 0 10px ${i % 3 ? '#22D37F' : '#F2C14E'}`));
   const zap = add(c, 'el btn', `${icon(IC2.chat, 52, '#fff', 2.2)}<span style="margin-left:16px;letter-spacing:.04em">+55 98 8499-2560</span>`, `width:${V(700, 640)}px;height:120px;font-size:${V(50, 46)}px`);
-  return { halo, logo, wm, sparks, zap, D: mkDot(c), l1: add(c, 'ctr pb', 'Dívida tem saída.', `font-size:${V(88, 76)}px`), l2: add(c, 'ctr', 'FALE COM O LOUGAN', 'font-weight:700;font-size:30px;color:#FFE9A8;letter-spacing:.3em;text-shadow:0 0 12px rgba(242,193,78,.7)') };
+  return { A, halo, logo, wm, sparks, zap, D: mkDot(c), l1: add(c, 'ctr pb', 'Dívida tem saída.', `font-size:${V(88, 76)}px`), l2: add(c, 'ctr', 'FALE COM O LOUGAN', 'font-weight:700;font-size:30px;color:#FFE9A8;letter-spacing:.3em;text-shadow:0 0 12px rgba(242,193,78,.7)') };
 }, (x, lf, d) => {
   const c = x.ctx;
   cam(x.cam, lf, d, { s1: 1.08, oy: CY - 150 });
   const beat = Math.exp(-((lf % 15) / 3.5)) * (1 - prog(lf, 120, 150)), ly = CY - V(330, 250);
   P(c.logo, { y: ly - lf * .2, s: lerp(1.7, 1, prog(lf, 0, 14, E.out5)) * (1 + .05 * prog(lf, 0, d)) * (1 + .02 * beat), b: (1 - prog(lf, 0, 10, E.out5)) * 20, r: lerp(12, 0, prog(lf, 0, 16, E.out5)) });
   P(c.halo, { y: ly - lf * .2, s: lerp(.8, 1, prog(lf, 0, 14, E.out5)) * (1 + .08 * beat), o: .5 + .5 * beat });
+  arcsAt(c.A, lf, { y: ly - lf * .2, t0: 2, spd: 1.8, o: .85 });
   L(c.wm, { y: ly + V(390, 320) - prog(lf, 14, d) * 14, o: prog(lf, 14, 24), b: (1 - prog(lf, 14, 24)) * 12 });
   pop(c.l1, lf, 40, d, { y: ly + V(590, 480), from: 1.5 });
   c.l2.style.letterSpacing = `${.3 + prog(lf, 60, d) * .1}em`;
@@ -574,6 +624,8 @@ const SFX = [
   ['pop', 1165, .5, 0, { f0: 400, f1: 900 }], ['whoosh', 1155, .3, 0, { dur: .3, f0: 800, f1: 3000, peak: .6 }], ['tick', 1177, .3, 0, {}], ['click', 1200, .7, 0, {}], ['chime', 1202, .45, 0, {}], ['riser', 1230, .45, 0, { dur: 1.0 }],
   ['impact', 1260, 1.0, 0, { dur: 2.2 }], ['shimmer', 1261, .5, 0, { dur: 1.8 }], ['coins', 1262, .35, 0, { n: 10, dur: .9 }], ['pop', 1300, .45, 0, {}], ['chime', 1320, .35, 0, {}], ['whoosh', 1324, .4, -.6, { dur: .4, f0: 400, f1: 3000, peak: .7, panFrom: -.8, panTo: 0 }], ['pop', 1336, .5, 0, { f0: 450, f1: 1000 }], ['chime', 1340, .3, 0, {}],
 ];
+[[105 + 2, .35], [210 + 4, .3], [375 + 4, .3], [795 + 4, .32], [1065 + 2, .32]].forEach(([t, g], i) => SFX.push(['pop', t, g, (i % 2 ? .3 : -.3), { f0: 500 + i * 60, f1: 1100 + i * 80 }]));
+SWIPE.forEach(T => SFX.push(['whoosh', T - SWN, .55, 0, { dur: .6, f0: 250, f1: 3800, peak: .55, panFrom: .7, panTo: -.7 }]));
 SC.forEach(sc => { if (sc.tr) SFX.push(['whoosh', sc.a - 3, .45, 0, { dur: .5, f0: 300, f1: 5000, peak: .75 }]); });
 const TYPE_AT = [[12, 'Você paga todo mês e a dívida', 26], [109, 'É juros em cima de juros.', 26], [145, 'Multa em cima de multa.', 26], [240, 'Do jeito que tá, a conta', 26], [302, 'É aí que entra a', 22],
   [381, 'A gente analisa cada cobrança', 28], [479, 'e negocia direto com o credor.', 28], [606, 'O resultado? Desconto de', 24], [715, 'E uma parcela que', 24], [797, 'E cuida do resto também.', 26], [959, 'Quem cuida do seu caso é', 24], [1067, 'Manda uma mensagem.', 24]];
@@ -587,10 +639,23 @@ const BOARD = [[40, 'Gancho', 'dívida subindo'], [96, 'Gancho', 'só aumenta?']
 function render(t) {
   const f = t * FPS;
   SC.forEach(s => {
-    const lf = f - s.a, on = lf >= 0 && lf < s.d;
+    const lf0 = f - s.a, sOut = SWIPE.includes(s.a + s.d) ? SWN : 0, sIn = SWIPE.includes(s.a) ? SWN : 0;
+    const on = lf0 >= -sIn && lf0 < s.d + sOut;
     s.sec.style.visibility = on ? 'visible' : 'hidden';
     if (!on) return;
-    s.fn(s, lf, s.d);
+    const lf = Math.max(0, lf0);
+    NOEXIT = sOut > 0; s.fn(s, lf, s.d); NOEXIT = false;
+    // troca de tela: as duas cenas encolhem em cartões arredondados com borda neon e deslizam pra esquerda
+    let tr = 'none', sk = 0;
+    SWIPE.forEach(T => {
+      if (f < T - SWN || f >= T + SWN || (T !== s.a && T !== s.a + s.d)) return;
+      const k = prog(f, T - SWN, T + SWN, E.inOutC); sk = Math.sin(Math.PI * prog(f, T - SWN, T + SWN));
+      const sc = 1 - .26 * sk, off = W * sc + 70;
+      tr = `translateX(${T === s.a ? (1 - k) * off : -k * off}px) scale(${sc})`;
+    });
+    s.sec.style.transform = tr;
+    s.sec.style.borderRadius = sk > .01 ? `${46 * sk}% / ${26 * sk}%` : '0';
+    s.sec.style.boxShadow = sk > .01 ? `0 0 0 ${5 * sk}px rgba(93,240,168,${sk}),0 0 ${90 * sk}px rgba(34,211,127,${.8 * sk})` : 'none';
     // deriva contínua do fundo em toda cena (regra 1: zero dead holds)
     s.glows.forEach((g, i) => { g.style.transform = `translate(${Math.sin(f / 23 + i) * 70}px,${Math.cos(f / 29 + i) * 110}px) scale(${1 + .08 * Math.sin(f / 17)})`; });
     s.grids.forEach(g => { if (!g.dataset.own) g.style.transform = `translate(${Math.sin(f / 40) * 20}px,${-(f * 1.2) % 90}px)`; });
